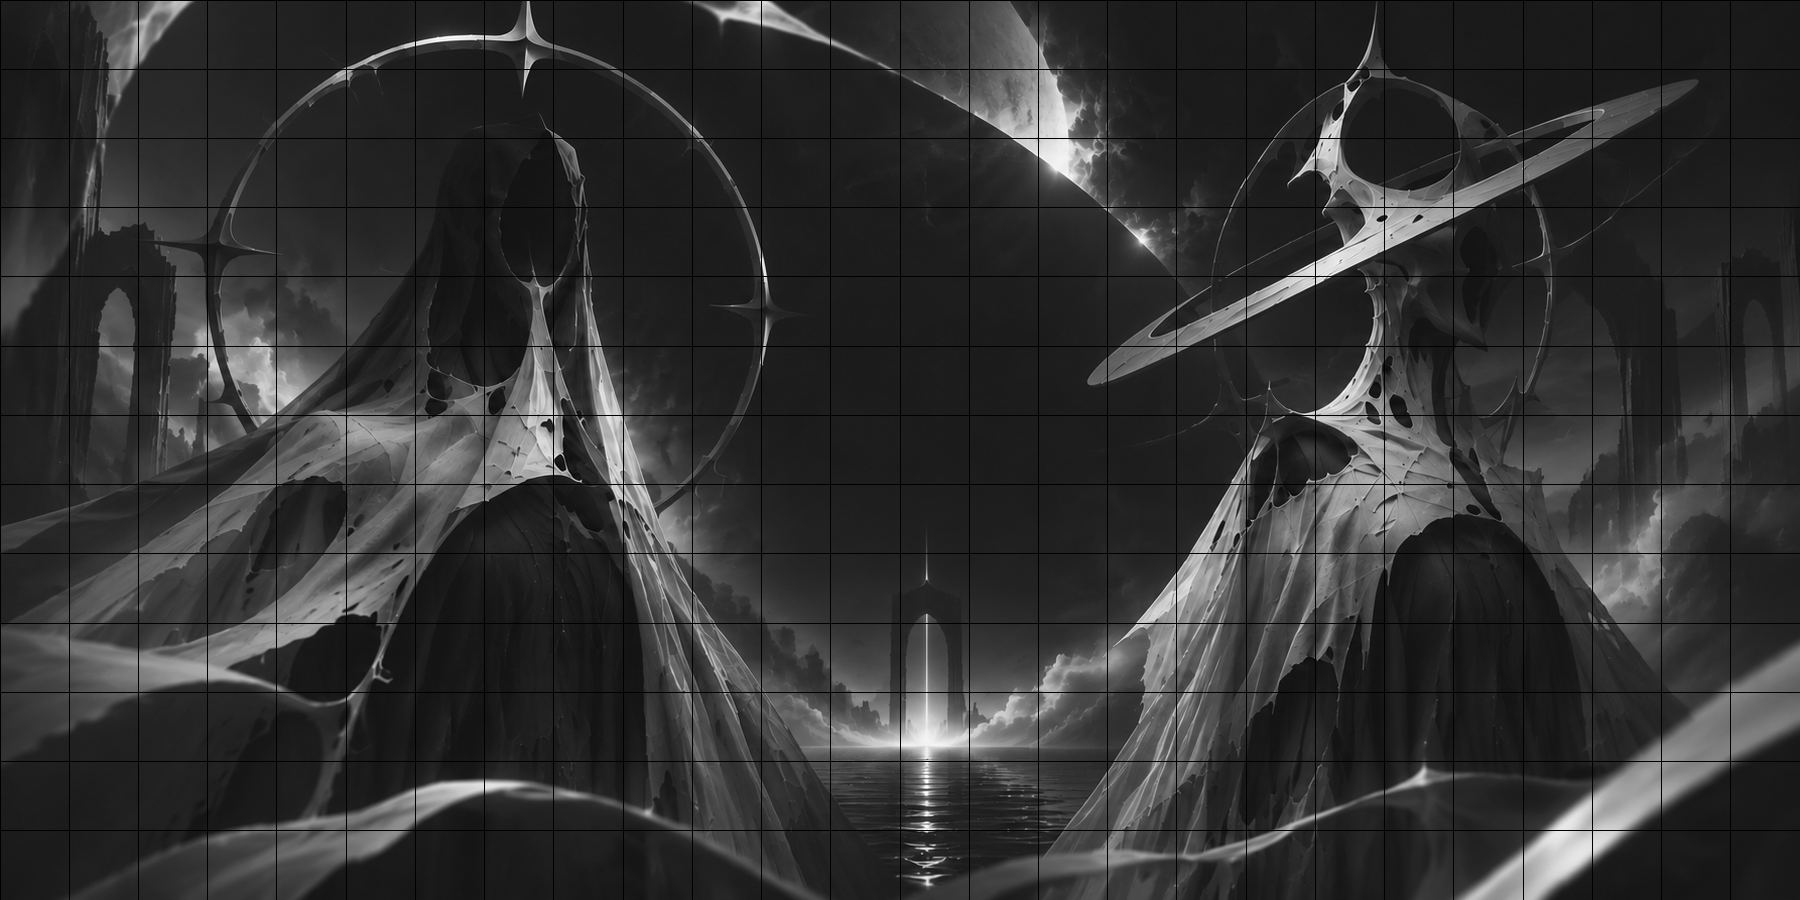
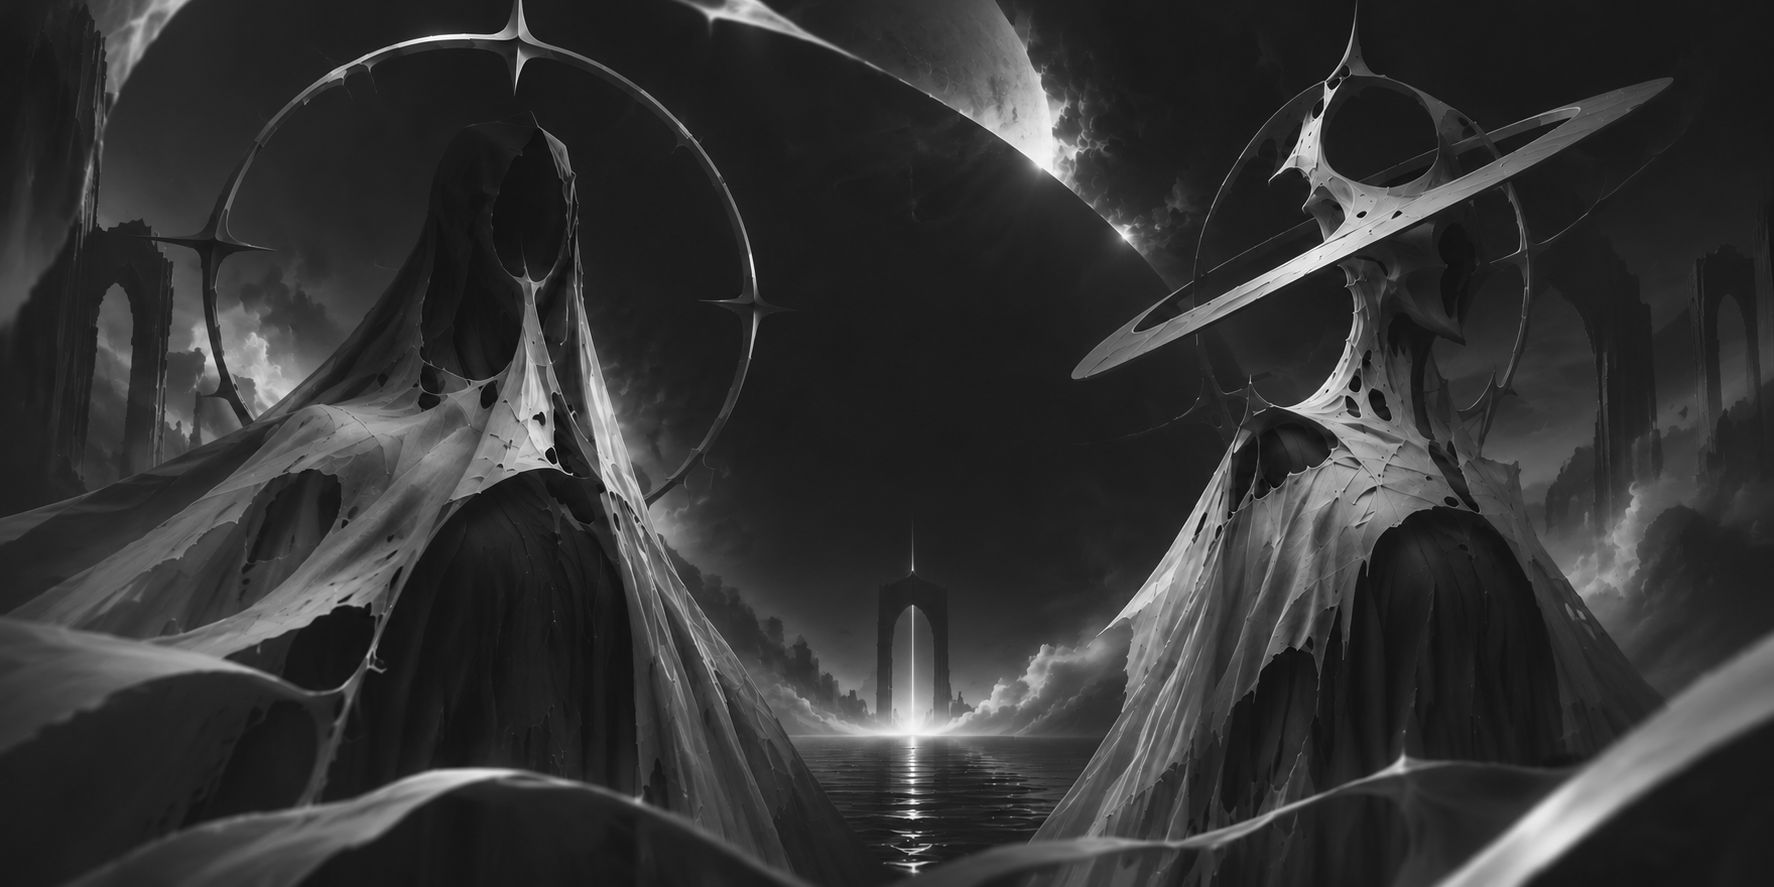
Hidden Pool: баннер без сетки из чёрных пикселей

diff --git a/CHANGELOG.md b/CHANGELOG.md
@@ -1,5 +1,8 @@
 # История версий
 
+## 0.42.1
+- Исправлено: на фоне страницы «Hidden Pool» была видна сетка из тёмных квадратиков. Баннер при подготовке растягивался с пропусками пикселей. Картинка заменена, теперь без сетки.
+
 ## 0.42.0
 - Страница подписки: во вкладке «Подписка → Страница» список тем теперь раскрывающийся, с картинкой и тегом. Первой идёт «Whitelist Panel (по умолчанию)», второй готовая страница «Hidden Pool» с тегом «Спонсор», дальше ваши темы.
 - У «Hidden Pool» код не правится, меняются три поля: «Сайт», «Telegram» и «Поддержка». Telegram и поддержку можно ввести как @имя. Поле «Telegram» и «Поддержка» заполнены ссылками Hidden Pool, «Сайт» пустой: пустое поле убирает ссылку со страницы. Если поддержка пуста, берётся ссылка поддержки из настроек подписки. Ниже поля предпросмотр.
